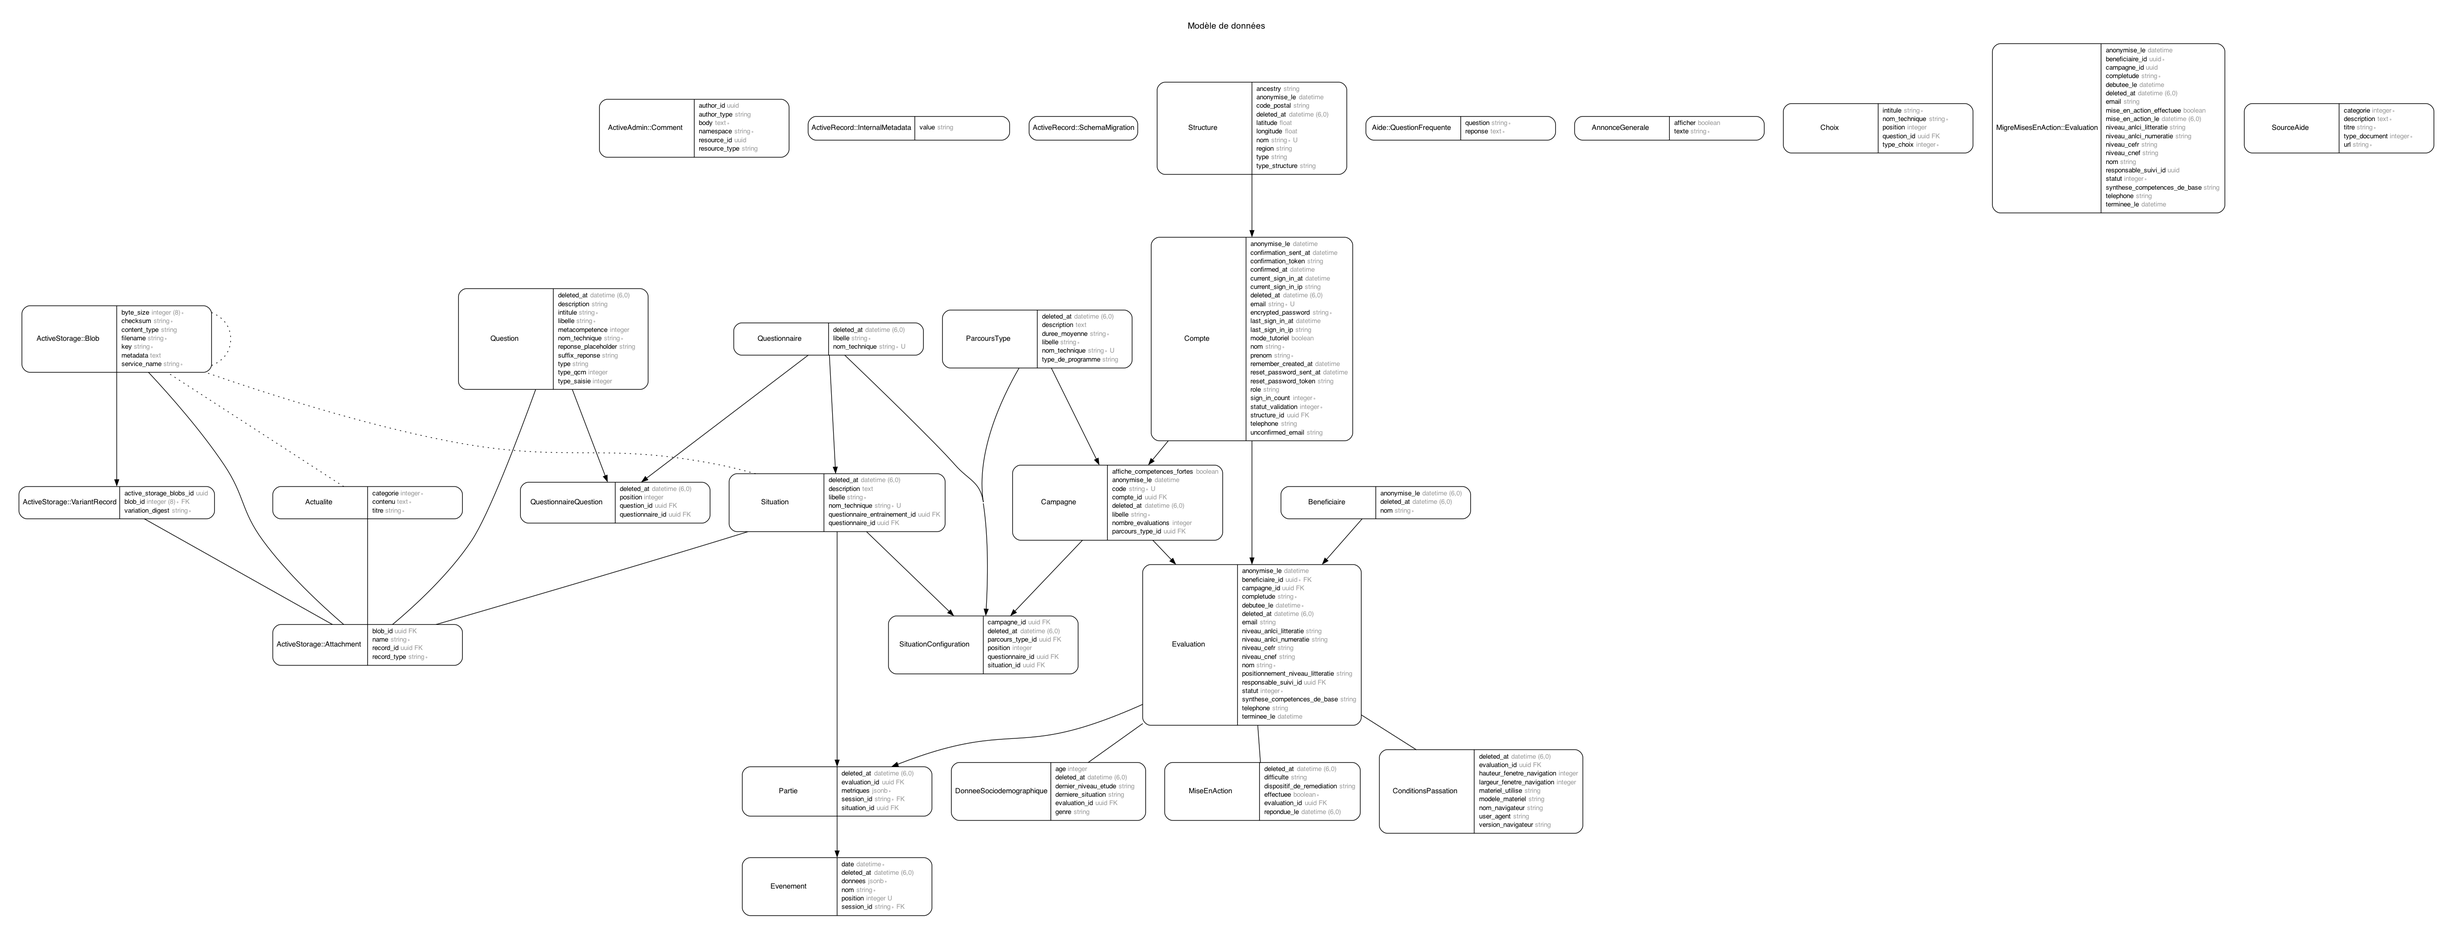
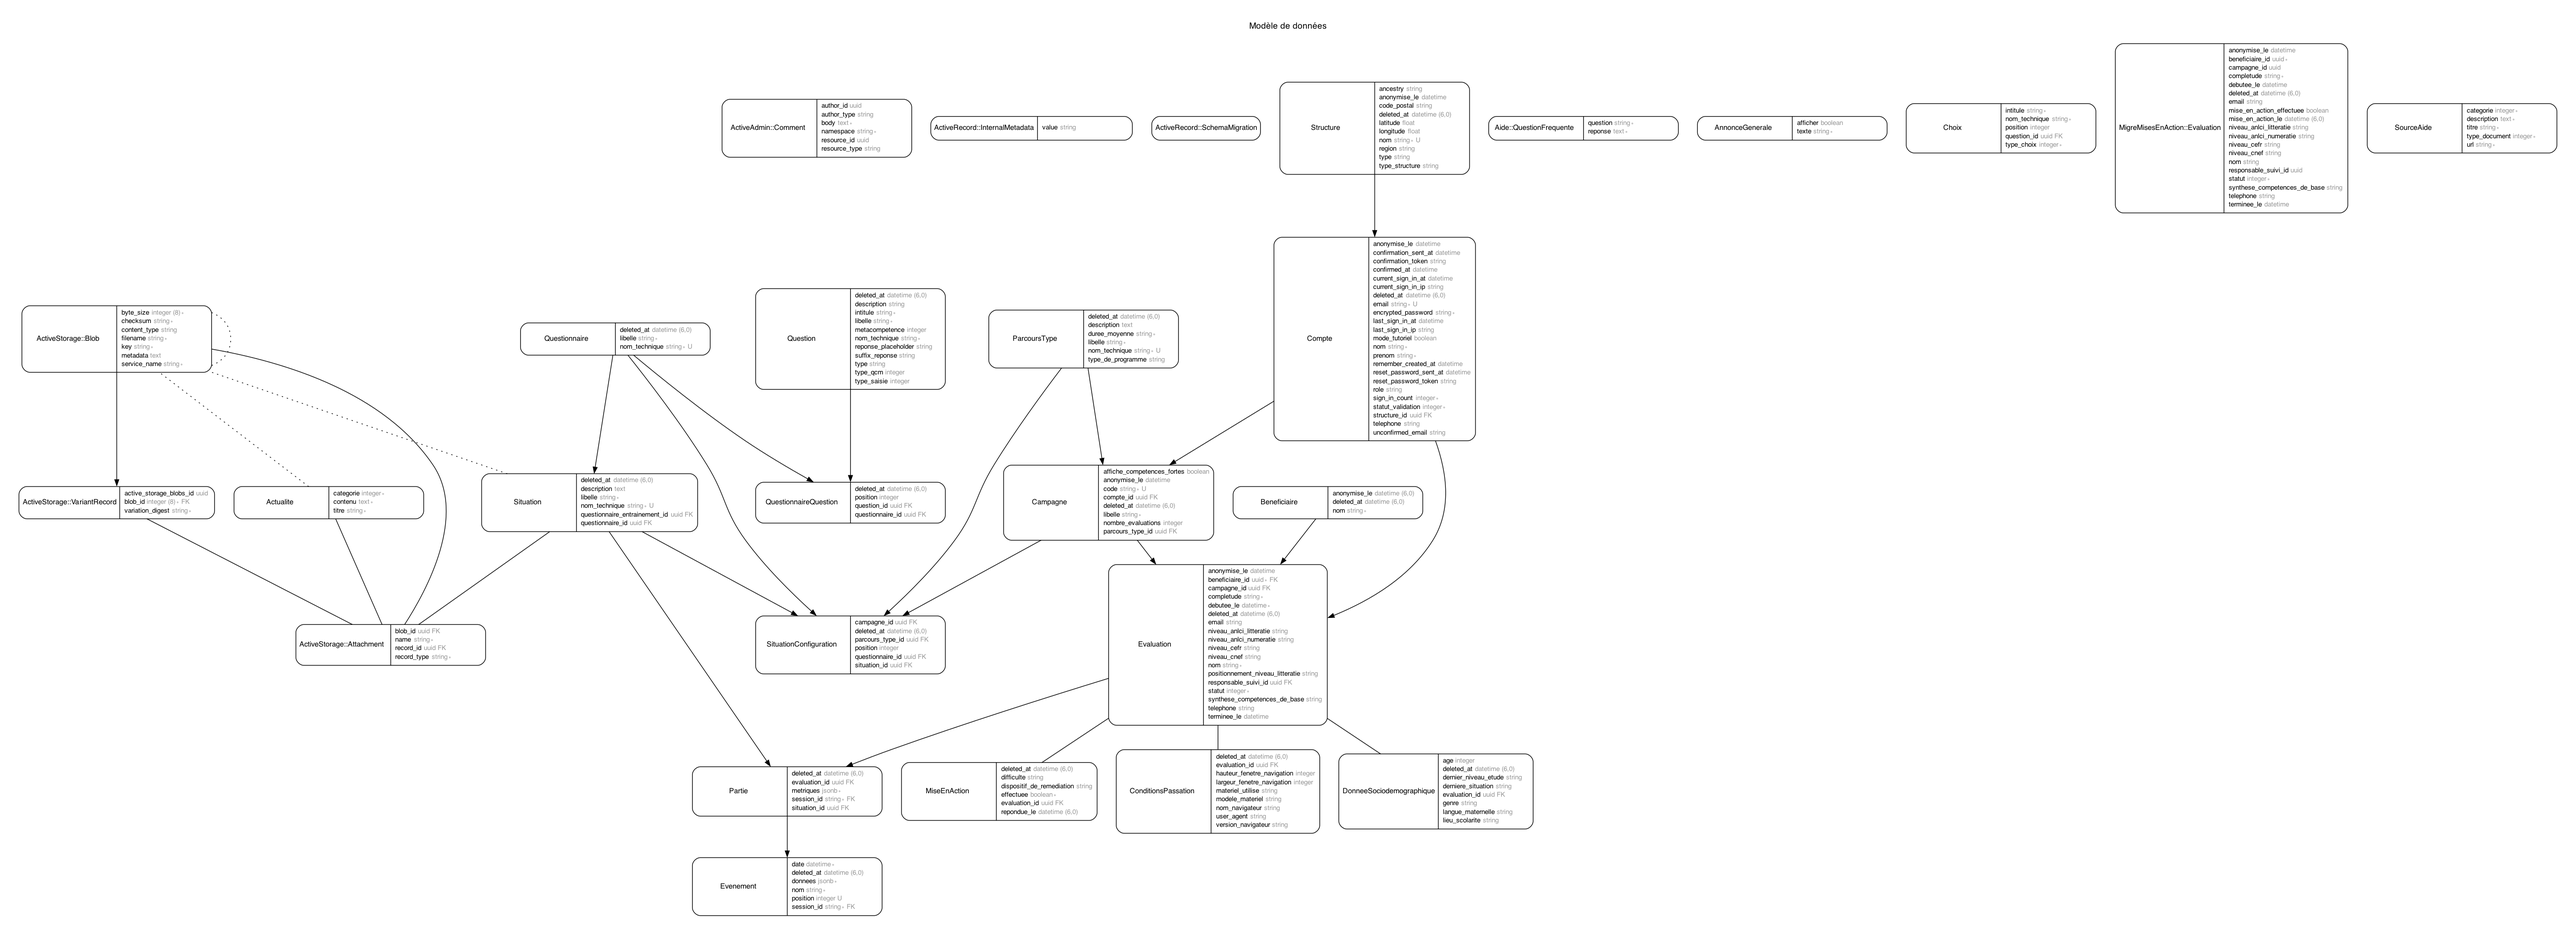
Ajoute les nouvelles colonnes de données sociodemographiques
Et aligne quelques nom_techniques des questions

retour arrière renomage quel_age et niveau_etude

diff --git a/db/schema.rb b/db/schema.rb
@@ -10,7 +10,7 @@
 #
 # It's strongly recommended that you check this file into your version control system.
 
-ActiveRecord::Schema[7.0].define(version: 2023_03_17_154350) do
+ActiveRecord::Schema[7.0].define(version: 2023_03_24_135608) do
   # These are extensions that must be enabled in order to support this database
   enable_extension "pgcrypto"
   enable_extension "plpgsql"
@@ -169,6 +169,8 @@ ActiveRecord::Schema[7.0].define(version: 2023_03_17_154350) do
     t.datetime "created_at", null: false
     t.datetime "updated_at", null: false
     t.datetime "deleted_at"
+    t.string "langue_maternelle"
+    t.string "lieu_scolarite"
     t.index ["deleted_at"], name: "index_donnees_sociodemographiques_on_deleted_at"
     t.index ["evaluation_id"], name: "index_donnees_sociodemographiques_on_evaluation_id", unique: true
     t.index ["genre"], name: "index_donnees_sociodemographiques_on_genre"

diff --git a/app/models/donnee_sociodemographique.rb b/app/models/donnee_sociodemographique.rb
@@ -7,10 +7,10 @@ class DonneeSociodemographique < ApplicationRecord
 
   GENRES = %w[homme femme autre].freeze
   enum :genre, GENRES.zip(GENRES).to_h
-  NIVEAUX_ETUDES = %w[college cfg_dnb_bepc cap_bep bac
+  NIVEAUX_ETUDES = %w[pas_etude college cfg_dnb cap_bep bac
                       bac_plus2 superieur_bac_plus2].freeze
   enum :dernier_niveau_etude, NIVEAUX_ETUDES.zip(NIVEAUX_ETUDES).to_h
-  SITUATIONS = %w[scolarisation formation_professionnelle alternance emploi
+  SITUATIONS = %w[scolarisation formation_professionnelle alternance en_emploi
                   sans_emploi].freeze
   enum :derniere_situation, SITUATIONS.zip(SITUATIONS).to_h
 
@@ -20,6 +20,8 @@ class DonneeSociodemographique < ApplicationRecord
     [
       age,
       genre,
+      langue_maternelle,
+      lieu_scolarite,
       dernier_niveau_etude,
       derniere_situation
     ].compact.join(' | ')

diff --git a/db/migrate/20230324135608_ajoute_colonne_donnees_sociodemographiques.rb b/db/migrate/20230324135608_ajoute_colonne_donnees_sociodemographiques.rb
@@ -1,0 +1,6 @@
+class AjouteColonneDonneesSociodemographiques < ActiveRecord::Migration[7.0]
+  def change
+    add_column :donnees_sociodemographiques, :langue_maternelle, :string
+    add_column :donnees_sociodemographiques, :lieu_scolarite, :string
+  end
+end
